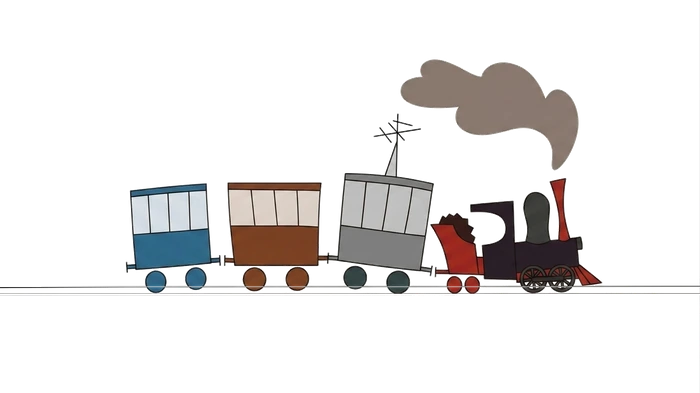
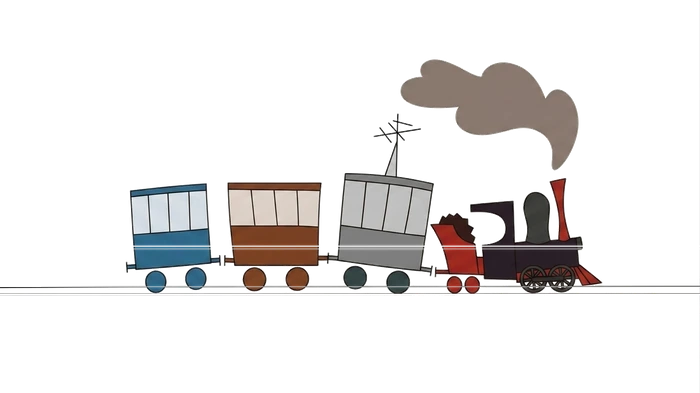
fix(#45): Malivlak — disable overlay wheels + add bottomPaddingOffset for rail alignment
User: rodanya belum align positioningnya thp gambar roda + karakter kurang ke bawah + garis masih ada.

Changes:
1. Disabled overlay wheels for Malivlak (wheelPositions:[]) — artwork has
   visible wheels drawn per car, overlay creates double-wheel clutter + misalignment.
   Previous wheel positioning never matched sprite's own wheel art anyway.
2. Added bottomPaddingOffset:24 config field — compensates for transparent padding
   at bottom of cartoon source. G15 + G16 buildTrain now read this offset and
   push trainContainer.y down by that amount so sprite visually sits ON rail
   instead of floating.
3. Re-ran source cleanup with tighter detection — stripped additional thin rail
   lines at y=480, 481, 486 (were missed by prior pass).

G15 sprite baseline: LANE_Y[1] + spriteHeight/2 - 4 + bottomPaddingOffset
G16 sprite baseline: getTrackY(H) + 6 + bottomPaddingOffset

Cache: v=s → v=t

diff --git a/games/g16-pixi.html b/games/g16-pixi.html
@@ -866,12 +866,10 @@ const G16_CHAR_CONFIGS = {
   },
   jz62_malivlak: {
     spriteUrl:'../assets/train/malivlak-body.webp', spriteHeight:172,
-    // Sprite 700×393 (rails stripped). spriteHeight 172 (user 1.2x from 143).
-    wheelPositions:[
-      [-120,-13,7],[-98,-13,7],[-75,-13,7],[-55,-13,7],
-      [-32,-13,7],[-12,-13,7],[20,-9,5],[32,-9,5],[55,-13,9],[88,-13,9]
-    ],
-    smokePos:[95,-188], bodyBobFreq:0.08, bodyBobAmp:1.5, smokeInterval:12
+    // Wheels drawn in artwork — no overlay wheels to avoid clutter.
+    wheelPositions:[],
+    smokePos:[95,-188], bodyBobFreq:0.08, bodyBobAmp:1.5, smokeInterval:12,
+    bottomPaddingOffset:24
   }
 };
 
@@ -885,7 +883,8 @@ function buildTrain(W,H){
   const TS_sel = TRAIN_STYLES[selectedTrainIdx]
   if (window.CharacterTrain && TS_sel && TS_sel.character && TS_sel.characterKey && G16_CHAR_CONFIGS[TS_sel.characterKey]) {
     // Character sprites are bottom-anchored — place baseline ON the rail (sprite wheels drawn in artwork touch rail)
-    trainContainer.y = tY + 6
+    const padOff = (G16_CHAR_CONFIGS[TS_sel.characterKey].bottomPaddingOffset) || 0
+    trainContainer.y = tY + 6 + padOff
     trainContainer.scale.x = 1; // sprite already faces right
     const charConfig = G16_CHAR_CONFIGS[TS_sel.characterKey]
     g16CharacterTrain = CharacterTrain.mount(trainContainer, charConfig);

diff --git a/games/trains-db.js b/games/trains-db.js
@@ -33,13 +33,11 @@ const TRAIN_CATS = [
       {key:'jz62_malivlak', name:'Malivlak', sub:'JZ 62 Steam + 3 Cars', emoji:'🚂',
        isCharacter:true, spriteUrl:'../assets/train/malivlak-body.webp',
        wheelLayout:'passenger-train', spriteHeight:172,
-       // Sprite 700×393 (rails stripped). spriteHeight 143→172 (user 1.2x). Render ~307×172.
-       // Wheels scaled to new render width across 3 cars + loco on right.
-       wheelPositions:[
-         [-120,-13,7],[-98,-13,7],[-75,-13,7],[-55,-13,7],
-         [-32,-13,7],[-12,-13,7],[20,-9,5],[32,-9,5],[55,-13,9],[88,-13,9]
-       ],
+       // Sprite 700×393. Wheels are drawn IN the artwork (3 cars + loco drivers) —
+       // overlay wheels hidden to avoid double-wheel clutter + misalignment.
+       wheelPositions:[],
        smokePos:[95,-188],
+       bottomPaddingOffset:24, // push sprite down by 24px to sit on rail (source has bottom transparent padding)
        bodyColor:'#4a2040', accColor:'#c0392b', kmh:48, baseSpeed:1.75, boostMult:1.50, boostDur:1550,
        desc:'Malivlak — Kereta uap dengan 3 gerbong, klasik Yugoslavia!'},
     ]

diff --git a/games/g15-pixi.html b/games/g15-pixi.html
@@ -1048,8 +1048,11 @@ function buildTrain() {
 
   // Character train branch — mount bg-removed WebP sprite with animated wheels + smoke
   if (selectedTrain.isCharacter && window.CharacterTrain) {
-    // Character sprites are bottom-anchored — shift so sprite baseline rests ON rail (not center of lane)
-    trainContainer.y = LANE_Y[1] + (selectedTrain.spriteHeight ? selectedTrain.spriteHeight / 2 - 4 : 40);
+    // Character sprites are bottom-anchored — shift so sprite baseline rests ON rail.
+    // bottomPaddingOffset compensates for transparent padding at the bottom of cartoon art.
+    const sh = selectedTrain.spriteHeight || 90;
+    const padOff = selectedTrain.bottomPaddingOffset || 0;
+    trainContainer.y = LANE_Y[1] + (sh / 2 - 4) + padOff;
     // Sprite faces RIGHT naturally (was flipped in source) — don't mirror container
     trainContainer.scale.x = 1;
     characterTrainInstance = CharacterTrain.mount(trainContainer, selectedTrain);

diff --git a/index.html b/index.html
@@ -6,7 +6,7 @@
 <title>Dunia Emosi 🐾</title>
 <link href="https://fonts.googleapis.com/css2?family=Nunito:wght@400;700;900&family=Fredoka+One&display=swap" rel="stylesheet">
 
-<link rel="stylesheet" href="style.css?v=20260422s">
+<link rel="stylesheet" href="style.css?v=20260422t">
 </head>
 <body>
 <!-- Loading indicator — hidden by JS after page loads -->
@@ -2056,6 +2056,6 @@ function loadPixiJS(cb) {
   document.head.appendChild(s)
 }
 </script>
-<script src="game.js?v=20260422s" defer></script>
+<script src="game.js?v=20260422t" defer></script>
 </body>
 </html>
